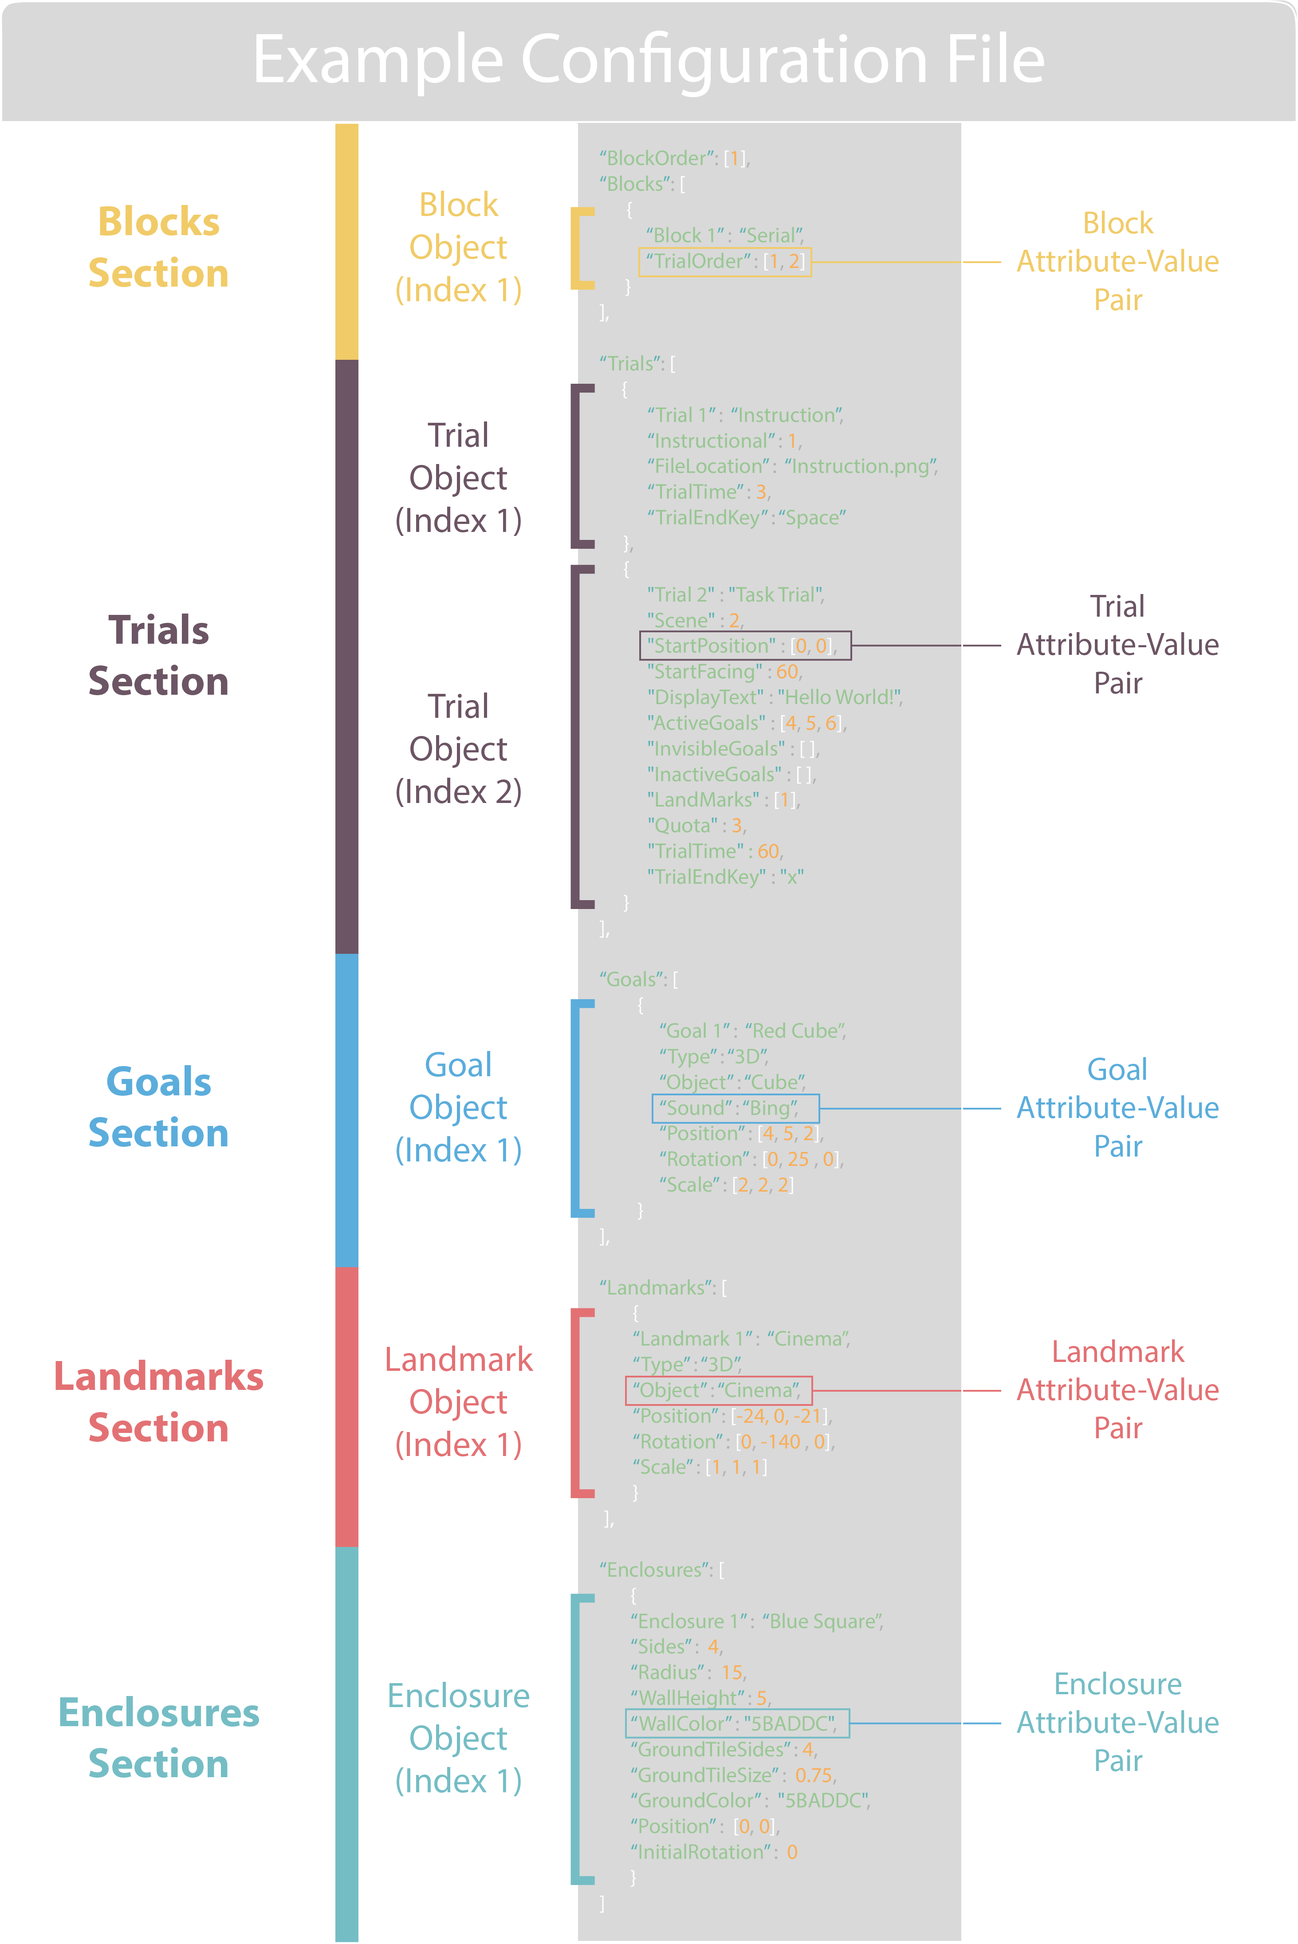
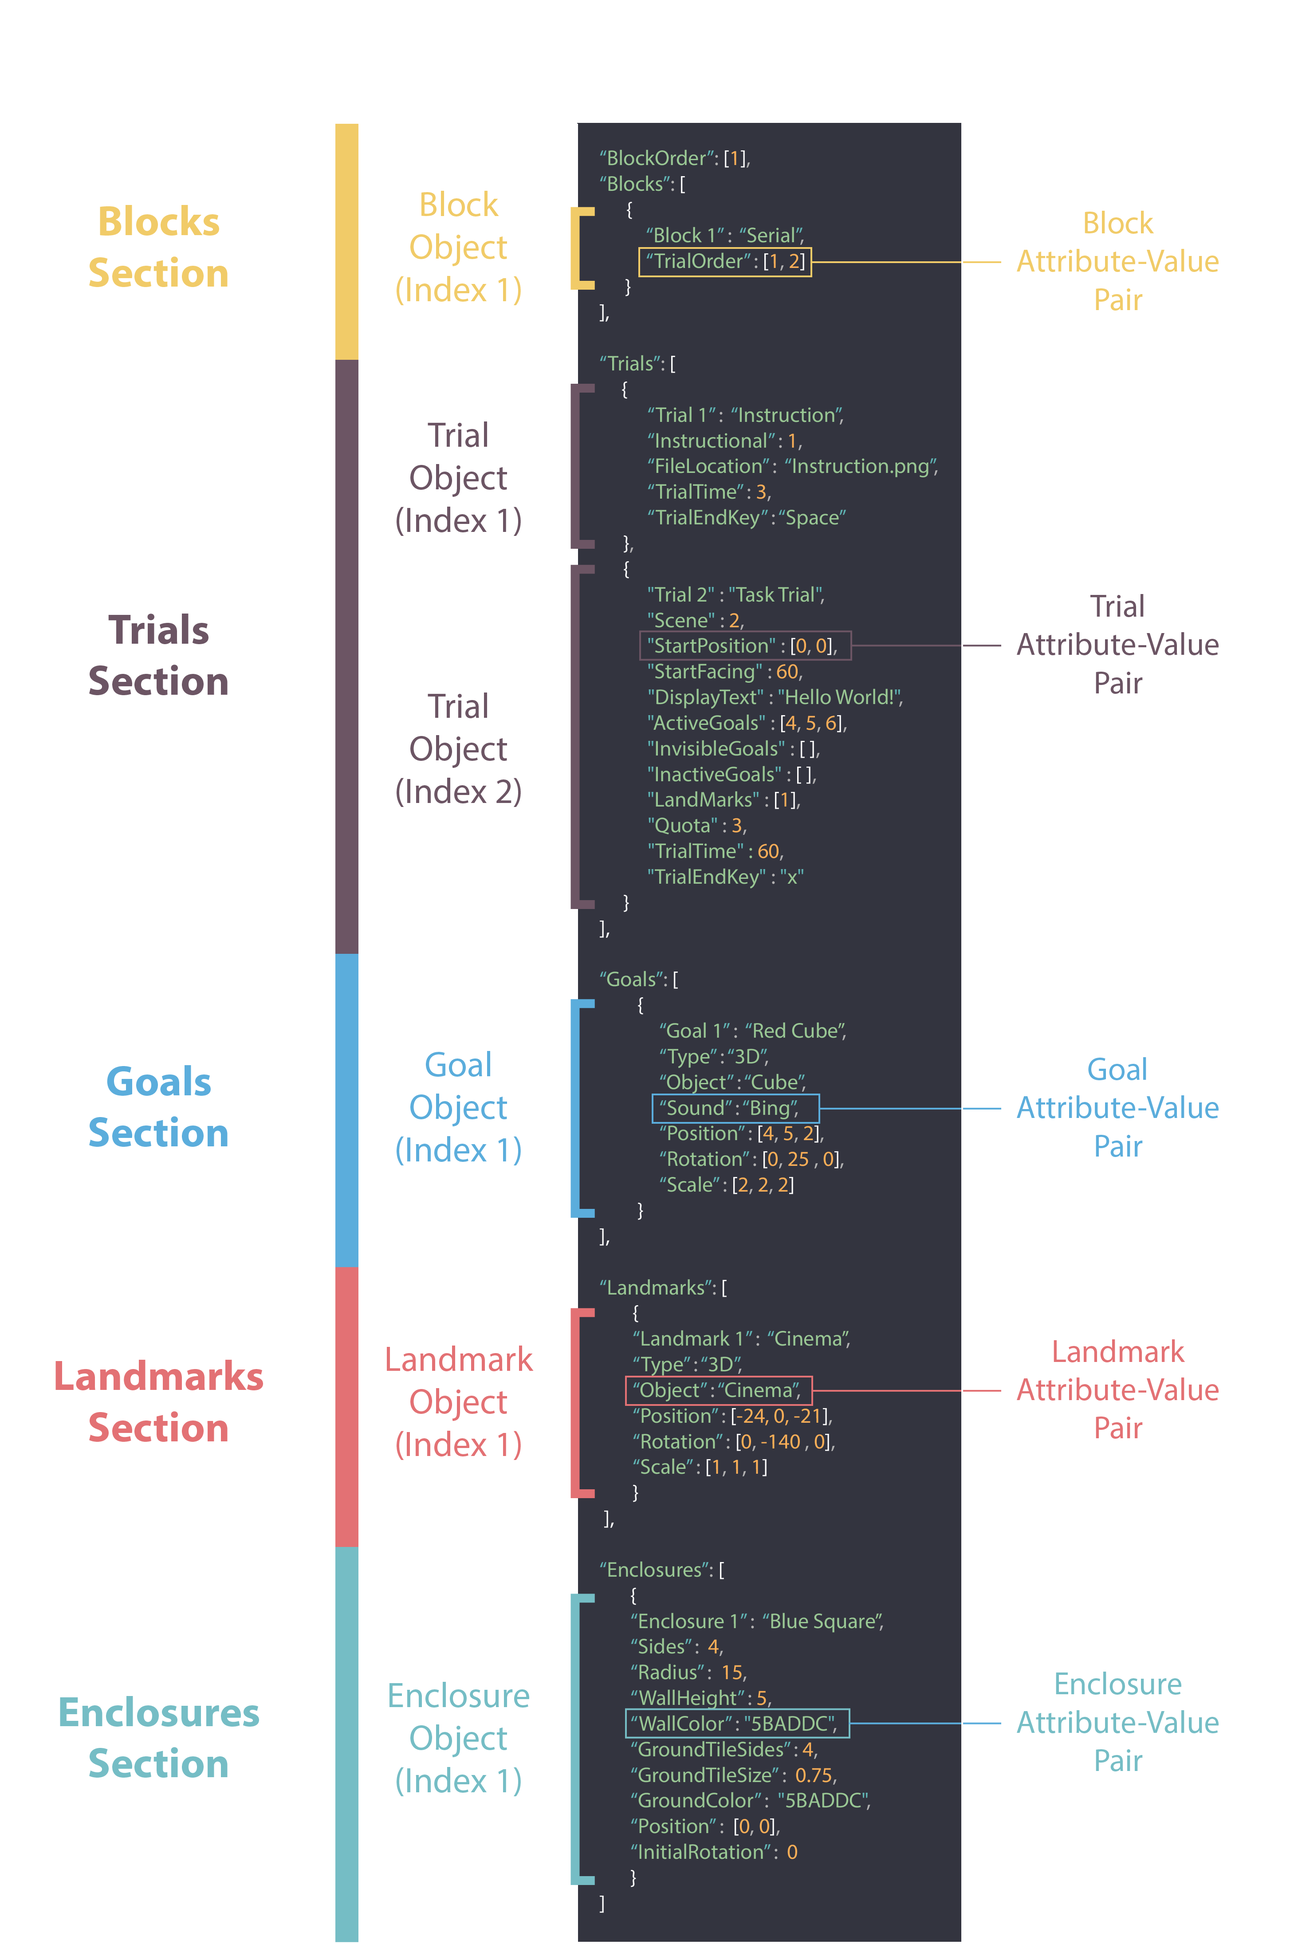
Updates

diff --git a/pages/documentation.js b/pages/documentation.js
@@ -209,6 +209,7 @@ class Documentation extends Component {
                 {this.state.step3 &&
                   <div>
                     <a href="#configO" className={subSectionLinkStyle}>Configuration Files</a>
+                    <a href="#configEO" className={subSectionLinkStyle}>Experiment Objects</a>
                     <a href="#configHeirarchy" className={subSectionLinkStyle}>Design Hierarchy</a>
                     <a href="#configG" className={subSectionLinkStyle}>Goals and Landmarks</a>
                     <a href="#configE" className={subSectionLinkStyle}>Enclosures</a>
@@ -497,7 +498,7 @@ class Documentation extends Component {
                 when designing your experiment.</p> 
                 <br /><br />
 
-                <p class="bg-yellow-600 rounded-lg border border-white p-3">
+                <p class="bg-yellow-600 rounded-lg border border-white p-3 text-center">
                   <strong>IMPORTANT:</strong> You may reorganize or delete Scenes within the <b>Scenes In Build</b> sub window, however the <b>+Launch Experiment</b> and <b>Loading Screen</b> MUST always occupy Scene numbers 0 and 1 respectively.
                 </p>
               </div>
@@ -510,7 +511,7 @@ class Documentation extends Component {
 
 
                 <div className="border border-white rounded-lg my-8 overflow-x-auto">
-                    <div class="bg-gray-700 rounded-t-lg border border-white p-4">
+                    <div class="bg-gray-800 rounded-t-lg border border-white p-4">
                       <p class="text-center"><b>The 6 Sections of OpenMaze Configuration Files</b></p>
                     </div>
                   <table className="table-auto">
@@ -553,14 +554,14 @@ class Documentation extends Component {
                 </div>
                 
                 
-                <h3 id="configHeirarchy" className="font-medium text-5xl">Experiment Objects</h3>
+                <h3 id="configEO" className="font-medium text-5xl">Experiment Objects</h3>
                 <p>Experiments are created by defining <i>Experiment Objects</i> within each of the five <b>Section Arrays</b> (we'll refer to them as just <b><i>Sections</i></b>). 
                 Each <i>Experiment Objects</i> is created by assigning custom <b>Values</b> to <b>Attributes</b> that are specified by the <i>Object's</i> type.
                 Namely, a <i>Goal Object</i> has a different set of <b>Attributes</b> than a <i>Trial Object</i>. 
                 Each <i>Object's</i> <b>Attribute-Value Pairs</b> are contained within a set of curly brackets and all objects of the same type are contained within the section's square brackets and seperated by a comma.
                 Each <i>Object</i> is implicitely assigned an index based on the order that it is defined within the section starting at <b>1</b>.</p><br />
                 
-                <p class="bg-gray-800 rounded-lg border border-white p-2 text-center">
+                <p class="bg-gray-600 rounded-lg border text-center border-white p-2 text-center">
                   <p><strong>Note:</strong> <i>Objects</i> will be refered to simply by their type in the remainder of this manual</p> <p> e.g. <i>Goal</i> == <i>Goal Object</i> </p></p><br />
                 
                 <img src={JSON} alt="" className="w-full my-4" /><br/>
@@ -599,7 +600,7 @@ class Documentation extends Component {
 
                     <br /><b>Audio files (<i>Goals</i> Only)</b> folder: <strong>OpenMaze/Assets/Resources/Sounds</strong></p>
 
-                    <p class="bg-yellow-600 rounded-lg border border-white p-2"><strong>IMPORTANT:</strong> You must add a collider object to 3D Models. 
+                    <p class="bg-yellow-600 rounded-lg border text-center border-white p-2"><strong>IMPORTANT:</strong> You must add a collider object to 3D Models. 
                     With the model open in the Unity Editor, click <strong>Add Component</strong> button in the <strong>Inspector </strong>window  
                     and select the appropriate 3D collider (usually a box collider works best). </p>
 
@@ -631,16 +632,16 @@ class Documentation extends Component {
                   Each attribute is defined by x,y,z values that directly correspond to the object's Transformation properties which can 
                   be found in the <strong>Inspector</strong> window when the object is selected.</p><br />
 
-                  <p class="bg-gray-800 rounded-lg border border-white p-2">
+                  <p class="bg-gray-600 rounded-lg border text-center border-white p-2">
                   <strong>Note:</strong> Image <i>Goals</i> rotate dynamically to ensure that they always face the participant’s viewing angle and thus do not require the “Rotation” attribute.</p><br />
 
                   <b>Step 5. Adding Sounds to <i>Goals</i></b>
                   <p>You can assign an Audio file to a <i>Goal</i> which will play whenever the the participant collects it during a <i>Trial</i>. The "Sound" attribute is assigned the file name of the Audio file as it appears in the <strong>Sounds</strong> project folder.</p>
                   <br />
 
-                  <div class="bg-red-600 rounded-lg border border-white p-2">
-                  <p><strong>Tip:</strong> Place your <i>Goal/Landmark</i> object into the Scene at the location you want it to appear. 
-                  You can then copy the Position, Rotation, and Scale values from the <strong>Inspector </strong>window before once again deleting the object from the Scene. 
+                  <div class="bg-red-600 rounded-lg border text-center border-white p-2">
+                  <p><strong>Tip:</strong> Place the 3D Model you're using to create your <i>Goal/Landmark</i> into the Scene at the location you want it to appear. 
+                  Then copy the Position, Rotation, and Scale values from the <strong>Inspector</strong> window before once again deleting the object from the Scene. 
                   Images cannot be placed directly into a Scene. Instead, use a 3D Model as a stand-in!</p>
                   </div><br />
                 
@@ -862,7 +863,7 @@ class Documentation extends Component {
                       simply click the <strong>Add Open Scene</strong> button located under the <strong>Scenes In Build</strong> sub window after opening the Scene in the editor.</p> 
                     <br/>
 
-                    <div class="bg-yellow-600 rounded-lg border border-white p-3">
+                    <div class="bg-yellow-600 rounded-lg border text-center border-white p-3">
                       <p><strong>IMPORTANT:</strong> You may reorganize Scene numbers by dragging Scenes to different positions within the <strong>Scenes In Build</strong> sub window, 
                       however the +Launch Experiment and Loading Scene MUST always occupy Scene numbers 0 and 1 respectively.</p>
                     </div>
@@ -877,7 +878,7 @@ class Documentation extends Component {
                     <p>The "TrialTime" dictates the duration of the <i>Trial</i> (in seconds). The "TrialEndKey" can be assigned any key, that when pressed will terminate the <i>Trial</i>. 
                       <i> Trials</i> will also terminate if the participant collects a number of <i>Goals</i> equal to the "Quota" value. (see Step 7 below)</p><br/>
 
-                    <p class="bg-gray-700 rounded-lg border border-white p-4">
+                    <p class="bg-gray-600 rounded-lg border text-center border-white p-4">
                     <strong>Note:</strong> The remaining steps are all optional. It is not necessary to add any <i>Goals, Landmarks</i> or an <i>Enclosure</i> to a <i>Task Trial</i> for it to function. </p><br/>
                     
                     <div class="bg-green-600 rounded-lg justify-center border border-white p-2">
@@ -902,7 +903,7 @@ class Documentation extends Component {
                     <br/>
                     <p>If the “Quota” is not reached by the end of the prescribed “TrialTime” (see below), the <i>Trial</i> will terminate. If the value for the “Quota” attribute is not set, the <i>Trial</i> will terminate after the first <i>Goal</i> is collected.</p> 
                     <br/>
-                    <div class="bg-red-600 rounded-lg border border-white p-4">
+                    <div class="bg-red-600 rounded-lg border text-center border-white p-4">
                         <p><strong>Tip:</strong> If you wish for the <i>Trial</i> to continue until the Quota is met, set “TrialTime” to an arbitrarily large value. Alternatively, if you want the <i>Trial</i> to continue until timeout regardless of the number of <i>Goals</i> collected, set the “Quota” to a number larger than the amount of collectable <i>Goals</i>.</p>
                     </div>
                     <br/>
@@ -1160,7 +1161,7 @@ class Documentation extends Component {
                 <p>Optionally, you may also assign a specific key to end the <i>Instruction/Cue Trial</i> when pressed by modifying the value of “TrialEndKey” attribute to the desired key.</p>
                 <br/>
 
-                <div class="bg-gray-700 rounded-lg border border-white p-4">
+                <div class="bg-gray-600 rounded-lg border text-center border-white p-4">
                     <p><strong>Note:</strong> you may also add an end experiment button to the Screen by adding - "EndButton": true - to any <i>Instruction/Cue Screen Trial</i> object. We discuss the functionality of this button in more detail in the <strong>Running Experiments Online</strong> section below.</p>
                   </div>
                   <br/>
@@ -1221,7 +1222,7 @@ class Documentation extends Component {
                   <h1 id="configB" className="font-medium text-5xl my-4"><i>Blocks</i></h1>
                 <p><i>Blocks</i> prescribe the sequence that <i>Trials</i> will be presented in. <i>Blocks</i> allow <i>Trials</i> to be presented in a serial order or randomized. You may also add functions to <i>Blocks</i> to create performance criterion for your participants.</p> 
                 <br/>
-                <div class="bg-red-600 rounded-lg border border-white p-4">
+                <div class="bg-red-600 rounded-lg border text-center border-white p-4">
                     <p><strong>Tip:</strong> Use <i>Blocks</i> to divide your experiment into analysis chunks. You can then use the BlockIndex column in the output file to segment the data during analysis!</p>
                 </div>
                 <br/>
@@ -1257,7 +1258,7 @@ class Documentation extends Component {
                 By default, after an "Order" is executed it is replaced and can be called at random next time a 0 in the "TrialOrder" is encountered. To remove each "Order", after it has been selected, add the "Replacement" attribute and set it to 0. 
                 </div>
 
-                <div class="bg-yellow-600 rounded-lg border border-white p-4">
+                <div class="bg-yellow-600 rounded-lg border text-center border-white p-4">
                     <p><strong>IMPORTANT:</strong> When "Replacement" is set to 0, the number of 0s added to the "TrialOrder" cannot exceed the number of "Orders" defined in the "RandomlySelect" attribute.</p>
                 </div><br/>
                 
@@ -1314,7 +1315,7 @@ class Documentation extends Component {
                 <p>Custom functions can be created within the <b>Funcions.cs</b> script found in the OpenMaze source code folder: <b>OpenMaze/Assets/Scripts/Main</b>. Functions must be written in C# And
                 may only return true or false.</p><br/>
 
-                <div class="bg-red-600 rounded-lg border border-white p-4">
+                <div class="bg-red-600 rounded-lg border text-center border-white p-4">
                     <p><strong>Tip:</strong> If you're unfamiliar with C#, don't worry, you can use the SuccessesCriterion function already contained in the <b>Function.cs</b> script 
                     as a template for creating your own function!</p>
                 </div><br/>
@@ -1430,7 +1431,7 @@ class Documentation extends Component {
 
 
                 <div className="border border-white rounded-lg my-8 overflow-x-auto">
-                <div class="bg-gray-600 border border-white p-4">
+                <div class="bg-gray-800 border border-white p-4">
                       <p class = "text-center"><strong>Experiment Settings</strong></p>
                 </div>
                   <table className="table-auto">
@@ -1465,7 +1466,7 @@ class Documentation extends Component {
                 <p>Character Settings are used to make quick changes to characteristics of the participant experience e.g. how tall they are, whether <i>Goals</i> should rotate in a Scene, etc.</p>
 
                 <div className="border border-white rounded-lg my-8 overflow-x-auto">
-                      <div class="bg-gray-600 border border-white p-4">
+                      <div class="bg-gray-800 border border-white p-4">
                       <p class = "text-center"><strong>Character Settings</strong></p>
                       </div>
                       <table className="table-auto">
@@ -1512,7 +1513,7 @@ class Documentation extends Component {
                   contained in the "AutoRun_Config" folder can be used to test to make sure you have moved the folder to the proper location, before being replaced with a Configuration File of your choosing. Removing the <b>AutoRun_Config </b> 
                   folder from the <b>StreamingAssets</b> folder, OR removing all configs from the <b>AutoRun_Config</b> folder will allow you to manually select Configuration Files once agian.</p><br />
 
-                  <div class="bg-yellow-600 rounded-lg border border-white p-4">
+                  <div class="bg-yellow-600 rounded-lg border text-center border-white p-4">
                     <p><strong>IMPORTANT:</strong> After moving the <strong>AutoRun_Config</strong> folder to the <strong>StreamingAssets</strong> folder it cannot be renamed and it must only contained 1 Configuration File for it to function properly.</p>
                     </div><br />
                 
@@ -1548,7 +1549,7 @@ class Documentation extends Component {
                     <p>Upon launching the experiment, you will be prompted with a file explorer window. Select a Configuration File of your choosing and press the <strong>Open</strong> button.</p>
                     <br />
 
-                    <div class="bg-gray-700 rounded-lg border border-white p-4">
+                    <div class="bg-gray-600 rounded-lg border text-center border-white p-4">
                     <p><strong>Note:</strong> If you are using the Auto Run Configuration File method described above, the Auto Run Configuration File will be automatically executed.</p>
                     </div><br />
 
@@ -1557,7 +1558,7 @@ class Documentation extends Component {
                       a participant would.  </p>
                     <br />
 
-                    <div class="bg-red-700 rounded-lg border border-white p-4">
+                    <div class="bg-red-700 rounded-lg border text-center border-white p-4">
                     <p><strong>Tip:</strong> Click the <strong>Maximize on Play</strong> button in the top right of the <strong>Game</strong> window to experience the experiment in full screen.</p>
                     </div><br />
 
@@ -1651,7 +1652,7 @@ class Documentation extends Component {
                     <p>Click the <b>Build</b> button and select the folder you created in <b>Step 2</b></p>
                     <br />
 
-                    <div class="bg-gray-700 rounded-lg border border-white p-4">
+                    <div class="bg-gray-600 rounded-lg border text-center border-white p-4">
                     <p><strong>Note:</strong> You may be prompted with a <strong>Missing Project ID</strong> window. Click <b>Yes</b> to continue</p>
                     </div><br />
 
@@ -1660,7 +1661,7 @@ class Documentation extends Component {
                     folder containing the experiment application will ensure that it is prompted when the application is launched.</p>
                     <br />
 
-                    <div class="bg-red-700 rounded-lg border border-white p-4">
+                    <div class="bg-red-700 rounded-lg border text-center border-white p-4">
                     <p><strong>Note:</strong> If you built your application using an Auto Run Configuraiton File, the application will automatically run this Configuraiton File.</p>
                     </div><br />
                   </div>
@@ -1672,7 +1673,7 @@ class Documentation extends Component {
                       exactly as it had in the <b>Game</b> window in the Unity Editor.</p>
                     <br />
 
-                    <div class="bg-yellow-600 rounded-lg border border-white p-4">
+                    <div class="bg-yellow-600 rounded-lg border text-center border-white p-4">
                     <p><strong>IMPORTANT:</strong> You must place the <strong>Configuration_File</strong> folder into the same folder as the application for it to auto prompt. If you are using 
                     an Auto Run Configuraiton File you can replace or make changes to it by navigating to the <b>StreamingAssets</b> subfolder.</p>
                     </div><br />
@@ -1723,7 +1724,7 @@ class Documentation extends Component {
                     <p>With the <b>Placeholder</b> object selected navigate to the <b>Inspector </b> 
                     window where you can change the text element to suit your needs.</p><br />
 
-                    <div class="bg-red-600 rounded-lg border border-white p-4">
+                    <div class="bg-red-600 rounded-lg border text-center border-white p-4">
                     <p><strong>Tip:</strong> To disable any of the start screen input fields, simply click on the field in the <strong>Hierarchy</strong> window to select it, then uncheck the checkbox next to the field name at the top of the <strong>Inspector</strong> window. Any input field disabled in this manner will be removed from your experiment start screen, but will still be available in the <strong>Hierarchy</strong> window should you wish to reenable it.</p>
                     </div><br />
 
@@ -1759,7 +1760,7 @@ class Documentation extends Component {
                       step-by-step instruction on how to package your experiments, upload them to the cloud, and create a URL that can be used by anyone to download your experiment.
                       These videos also include instructions for how to to download applications using the URL and run them.</p><br />
 
-                      <div class="bg-yellow-600 rounded-lg border border-white p-4">
+                      <div class="bg-yellow-600 rounded-lg border text-center border-white p-4">
                     <p><strong>IMPORTANT:</strong> There are key differences between uploading and downloading macOS vs. Windows experiment applications. Make sure to watch the corresponding video closely.</p>
                     </div><br />
 
